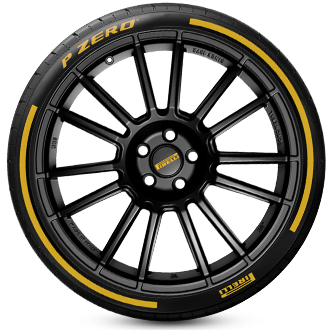
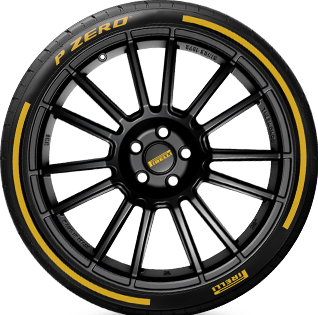
Wheel rotation and minor update

diff --git a/WebApplication1/WebApplication1/ClientApp/src/app/my_module/tire-selection/tire-selection.component.scss b/WebApplication1/WebApplication1/ClientApp/src/app/my_module/tire-selection/tire-selection.component.scss
@@ -49,6 +49,7 @@
             .textTire
             {
                 margin: 2%;
+                margin-right: 4%;
                 top: 3%;
                 display: inline-block;
                 p{
@@ -60,7 +61,7 @@
             img{
                 float: left;
                 width: 20%;
-                margin: 3%;
+                margin: 1%;
             }
         }
     }
@@ -98,7 +99,7 @@
             margin: auto;
             margin-top: 16%;
             background-color: rgb(173, 173, 173,0.8);
-            width: 70%;
+            width: 90%;
             height: 70%;
             border-radius: 20px;
             position: relative;
@@ -106,16 +107,16 @@
             #antWheel
             {
                 position: absolute;
-                width: 16%;
-                top:52%;
-                left: 18%;
+                width: 14%;
+                top:54%;
+                left: 19%;
             }
             #postWheel
             {
                 position: absolute;
-                width: 16%;
-                top:52%;
-                right: 13%;
+                width: 14%;
+                top:54%;
+                right: 14%;
             }
             #carImg
             {
@@ -129,5 +130,18 @@
                 width: 90%;     
             }
         }
+    }
+}
+.rotating
+{
+    -webkit-animation: rotation 2s infinite linear;
+
+}
+@-webkit-keyframes rotation {
+    from {
+            -webkit-transform: rotate(0deg);
+    }
+    to {
+            -webkit-transform: rotate(- 359deg);
     }
 }

diff --git a/WebApplication1/WebApplication1/ClientApp/src/app/my_module/tire-selection/tire-selection.component.html b/WebApplication1/WebApplication1/ClientApp/src/app/my_module/tire-selection/tire-selection.component.html
@@ -3,7 +3,7 @@
     <div id="header">
       <b>
         <h1>
-          {{car.brand}}  {{car.InvokeName}}
+          {{car.brand}}  {{car.invokeName}}
           
         </h1>
 
@@ -11,8 +11,8 @@
     </div>
     <div id="content">
       <img id="carImg" src="{{car.path}}">
-      <img src="{{selectedTire.tirePath}}" id="antWheel">
-      <img src="{{selectedTire.tirePath}}" id="postWheel">
+      <img src="{{selectedTire.tirePath}}" id="antWheel" class="rotating">
+      <img src="{{selectedTire.tirePath}}" id="postWheel"class="rotating">
 
     </div>
   </div>

diff --git a/WebApplication1/WebApplication1/ClientApp/src/app/my_module/Slider/slider.scss b/WebApplication1/WebApplication1/ClientApp/src/app/my_module/Slider/slider.scss
@@ -42,8 +42,7 @@ body
 {
     width: 100%;
     height: 9%;
-    background-color: rgb(86, 99, 110);
-    opacity: 0.58;
+    background-color:  rgb(173, 173, 173,0.58);
     position: absolute;
     top: 91%;
     border-top-left-radius: 20px;

diff --git a/WebApplication1/WebApplication1/ClientApp/src/app/Models/carModel.ts b/WebApplication1/WebApplication1/ClientApp/src/app/Models/carModel.ts
@@ -1,7 +1,7 @@
 import {tire} from './tire'
 export class car
 {
-    InvokeName:string;
+    invokeName:string;
     brand:string;
     path:string;
     tires:tire[];
